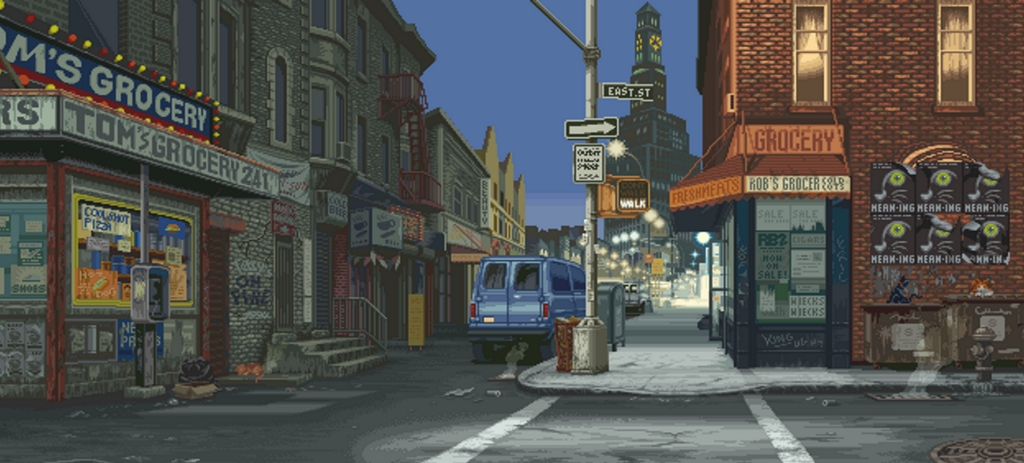
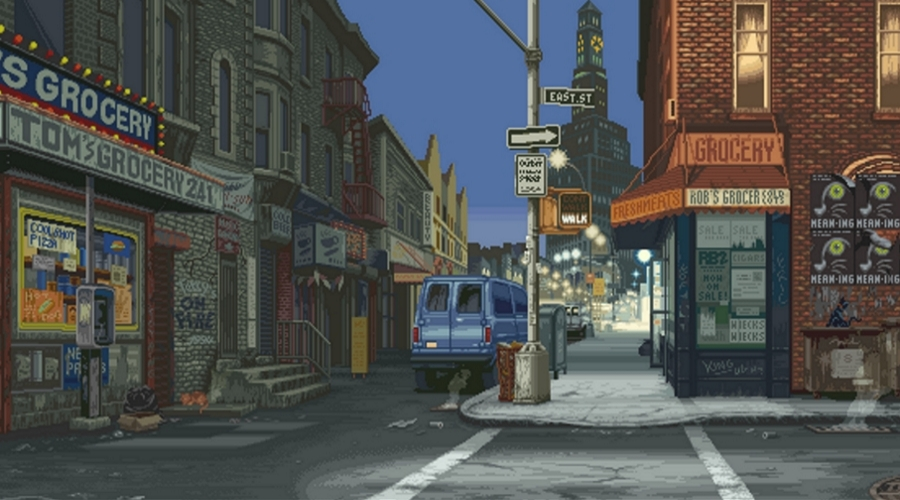
got rid of background image

diff --git a/Throwdown/Form1.Designer.cs b/Throwdown/Form1.Designer.cs
@@ -28,42 +28,26 @@
         /// </summary>
         private void InitializeComponent()
         {
-            this.gameScreenbackground = new System.Windows.Forms.PictureBox();
-            ((System.ComponentModel.ISupportInitialize)(this.gameScreenbackground)).BeginInit();
             this.SuspendLayout();
-            // 
-            // gameScreenbackground
-            // 
-            this.gameScreenbackground.BackgroundImage = global::Throwdown.Properties.Resources.gamescreen_Background;
-            this.gameScreenbackground.BackgroundImageLayout = System.Windows.Forms.ImageLayout.Stretch;
-            this.gameScreenbackground.Location = new System.Drawing.Point(-2, 0);
-            this.gameScreenbackground.Name = "gameScreenbackground";
-            this.gameScreenbackground.Size = new System.Drawing.Size(900, 500);
-            this.gameScreenbackground.TabIndex = 0;
-            this.gameScreenbackground.TabStop = false;
-            this.gameScreenbackground.Visible = false;
             // 
             // Form1
             // 
             this.AutoScaleDimensions = new System.Drawing.SizeF(8F, 16F);
             this.AutoScaleMode = System.Windows.Forms.AutoScaleMode.Font;
             this.BackColor = System.Drawing.Color.Black;
+            this.BackgroundImageLayout = System.Windows.Forms.ImageLayout.Center;
             this.ClientSize = new System.Drawing.Size(900, 500);
-            this.Controls.Add(this.gameScreenbackground);
             this.FormBorderStyle = System.Windows.Forms.FormBorderStyle.None;
             this.Name = "Form1";
             this.StartPosition = System.Windows.Forms.FormStartPosition.CenterScreen;
             this.Text = "Throwdown";
             this.WindowState = System.Windows.Forms.FormWindowState.Maximized;
             this.Load += new System.EventHandler(this.Form1_Load);
-            ((System.ComponentModel.ISupportInitialize)(this.gameScreenbackground)).EndInit();
             this.ResumeLayout(false);
 
         }
 
         #endregion
-
-        private System.Windows.Forms.PictureBox gameScreenbackground;
     }
 }
 

diff --git a/Throwdown/UserControl3.Designer.cs b/Throwdown/UserControl3.Designer.cs
@@ -110,6 +110,7 @@
             // 
             // P2CharBox
             // 
+            this.P2CharBox.Anchor = ((System.Windows.Forms.AnchorStyles)((System.Windows.Forms.AnchorStyles.Bottom | System.Windows.Forms.AnchorStyles.Left)));
             this.P2CharBox.BackColor = System.Drawing.Color.Transparent;
             this.P2CharBox.BackgroundImageLayout = System.Windows.Forms.ImageLayout.None;
             this.P2CharBox.Location = new System.Drawing.Point(700, 150);
@@ -122,6 +123,7 @@
             // 
             // P1CharBox
             // 
+            this.P1CharBox.Anchor = ((System.Windows.Forms.AnchorStyles)((System.Windows.Forms.AnchorStyles.Bottom | System.Windows.Forms.AnchorStyles.Left)));
             this.P1CharBox.BackColor = System.Drawing.Color.Transparent;
             this.P1CharBox.BackgroundImageLayout = System.Windows.Forms.ImageLayout.None;
             this.P1CharBox.Location = new System.Drawing.Point(50, 160);
@@ -144,7 +146,7 @@
             // 
             this.AutoScaleDimensions = new System.Drawing.SizeF(8F, 16F);
             this.AutoScaleMode = System.Windows.Forms.AutoScaleMode.Font;
-            this.BackColor = System.Drawing.Color.Transparent;
+            this.BackColor = System.Drawing.Color.FromArgb(((int)(((byte)(64)))), ((int)(((byte)(0)))), ((int)(((byte)(0)))));
             this.BackgroundImageLayout = System.Windows.Forms.ImageLayout.Stretch;
             this.Controls.Add(this.healthBackdrop);
             this.Controls.Add(this.quitButton);

diff --git a/Throwdown/UserControl3.cs b/Throwdown/UserControl3.cs
@@ -93,14 +93,11 @@ namespace Throwdown
         public gameScreen()
         {
             InitializeComponent();
-            
         }
 
         private void gameScreen_Load(object sender, EventArgs e)
         {
-            //gameScreenbackground.SendToBack();
-            //gameScreenbackground.Visible = true;
-
+            
             if (Form1.P1Character == "Hitbox")
             {
                 P1X = 50;

diff --git a/Throwdown/Form1.cs b/Throwdown/Form1.cs
@@ -30,7 +30,6 @@ namespace Throwdown
             Form1.Controls.Add(ts);
             ts.Location = new Point((Form1.Width - ts.Width) / 2, (Form1.Height - ts.Height) / 2);
 
-            gameScreenbackground.Location = new Point((Form1.Width - gameScreenbackground.Width) / 2, (Form1.Height - gameScreenbackground.Height) / 2);
            
         }
 
